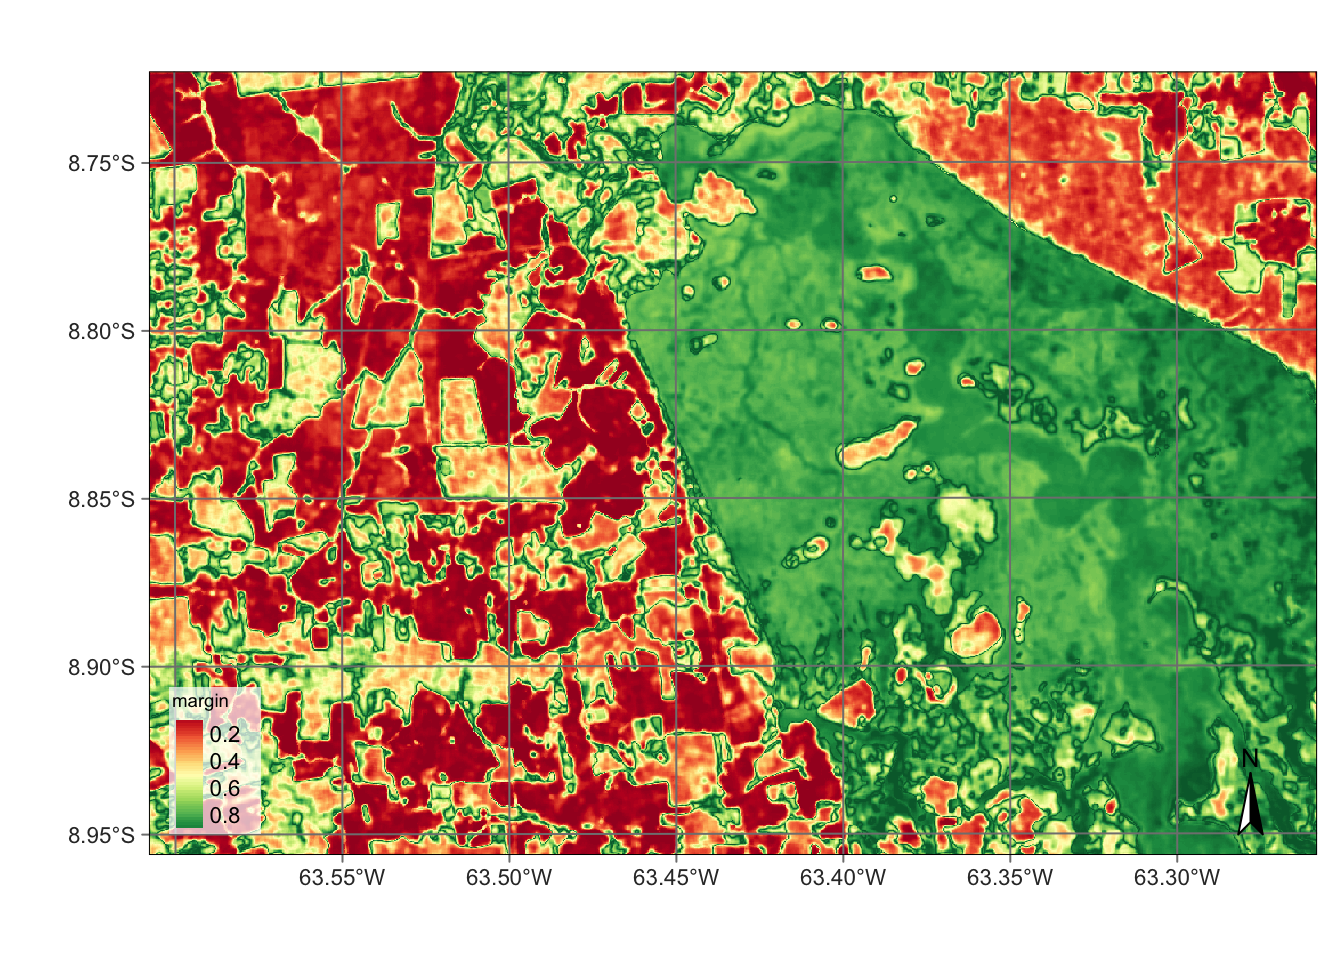
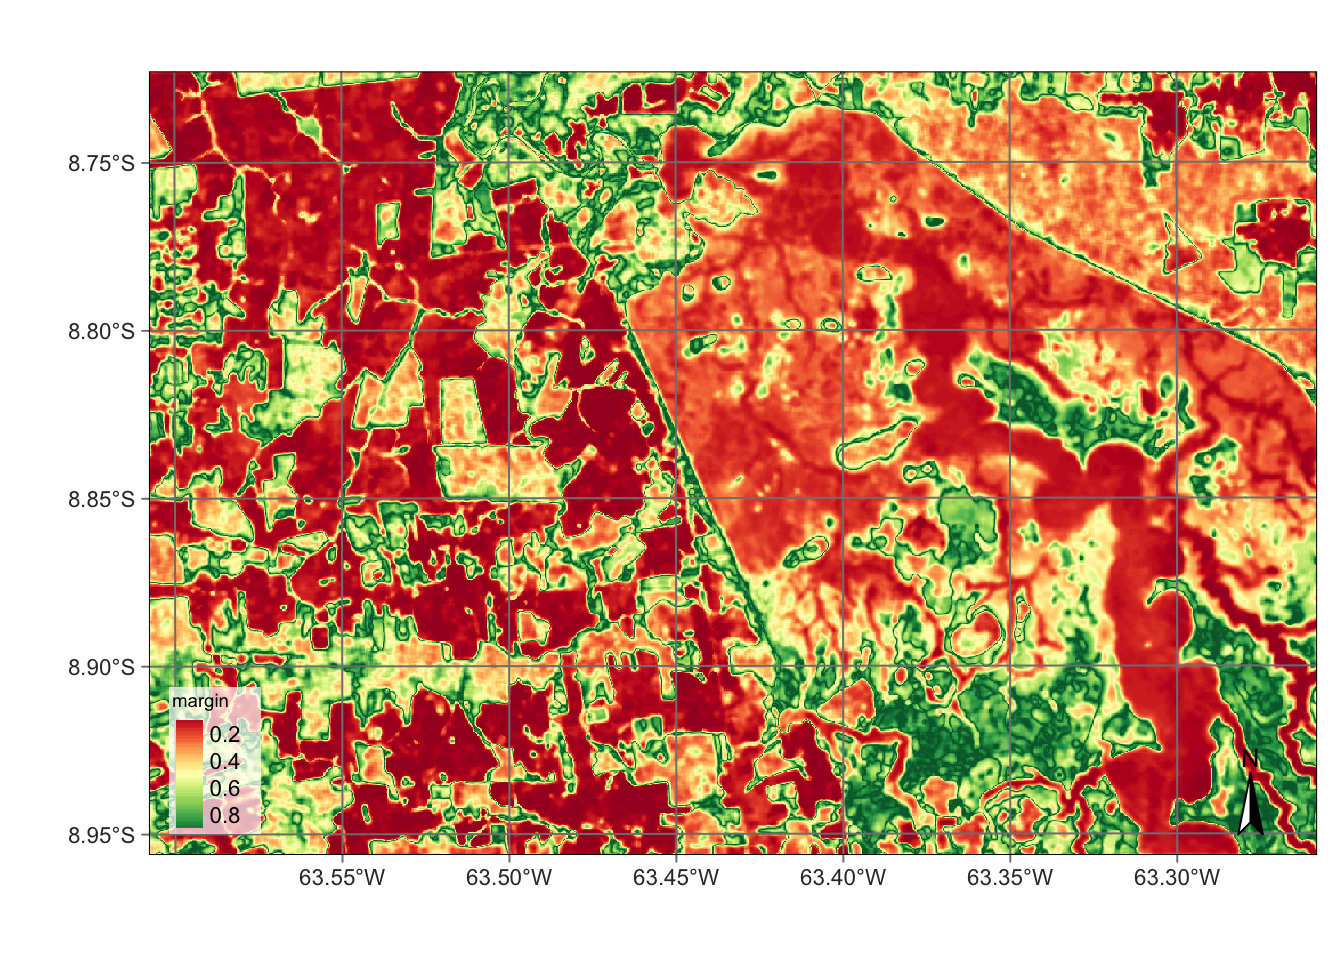
uncertainty mapped

diff --git a/docs/VT0007-deforestation-map.html b/docs/VT0007-deforestation-map.html
@@ -184,9 +184,9 @@ div.csl-indent {
   <li><a href="#process-data-cube" id="toc-process-data-cube" class="nav-link" data-scroll-target="#process-data-cube">Process data cube</a></li>
   <li><a href="#review-data-cube" id="toc-review-data-cube" class="nav-link" data-scroll-target="#review-data-cube">Review data cube</a></li>
   <li><a href="#classify-data-cube" id="toc-classify-data-cube" class="nav-link" data-scroll-target="#classify-data-cube">Classify data cube</a></li>
-  <li><a href="#review-uncertainty" id="toc-review-uncertainty" class="nav-link" data-scroll-target="#review-uncertainty">Review uncertainty</a></li>
-  <li><a href="#improve-training-sample" id="toc-improve-training-sample" class="nav-link" data-scroll-target="#improve-training-sample">Improve training sample</a></li>
-  <li><a href="#review-improvements" id="toc-review-improvements" class="nav-link" data-scroll-target="#review-improvements">Review improvements</a></li>
+  <li><a href="#map-uncertainty" id="toc-map-uncertainty" class="nav-link" data-scroll-target="#map-uncertainty">Map uncertainty</a></li>
+  <li><a href="#add-training-samples" id="toc-add-training-samples" class="nav-link" data-scroll-target="#add-training-samples">Add training samples</a></li>
+  <li><a href="#remap-uncertainty" id="toc-remap-uncertainty" class="nav-link" data-scroll-target="#remap-uncertainty">Remap uncertainty</a></li>
   <li><a href="#housekeeping" id="toc-housekeeping" class="nav-link" data-scroll-target="#housekeeping">Housekeeping</a></li>
   </ul></li>
   </ul>
@@ -372,8 +372,8 @@ div.csl-indent {
 </div>
 </div>
 </section>
-<section id="review-uncertainty" class="level2">
-<h2 class="anchored" data-anchor-id="review-uncertainty">Review uncertainty</h2>
+<section id="map-uncertainty" class="level2">
+<h2 class="anchored" data-anchor-id="map-uncertainty">Map uncertainty</h2>
 <p>To improve model performance, we estimate class uncertainty and plot these pixel error metrics. Results below reveal highest uncertainty levels in classification of wetland and water areas.</p>
 <div class="cell">
 <div class="sourceCode cell-code" id="cb6"><pre class="sourceCode r code-with-copy"><code class="sourceCode r"><span id="cb6-1"><a href="#cb6-1" aria-hidden="true" tabindex="-1"></a><span class="co"># Calculate the uncertainty cube</span></span>
@@ -394,7 +394,7 @@ div.csl-indent {
 </div>
 </div>
 </div>
-<p>As expected, the places of highest uncertainty are those covered by surface water or associated with wetlands. These places are likely to be misclassified. For this reason, sits provides sits_uncertainty_sampling(), which takes the uncertainty cube as its input and produces a tibble with locations in WGS84 with high uncertainty <span class="citation" data-cites="camaraUncertaintyActiveLearning">(<a href="#ref-camaraUncertaintyActiveLearning" role="doc-biblioref">Camara et al., n.d.</a>)</span>.</p>
+<p>As expected, the places of highest uncertainty are those covered by surface water or associated with wetlands. These places are likely to be misclassified. For this reason, sits provides <code>sits_uncertainty_sampling()</code>, which takes the uncertainty cube as its input and produces a tibble with locations in WGS84 with high uncertainty <span class="citation" data-cites="camaraUncertaintyActiveLearning">(<a href="#ref-camaraUncertaintyActiveLearning" role="doc-biblioref">Camara et al., n.d.</a>)</span>.</p>
 <div class="cell">
 <div class="sourceCode cell-code" id="cb7"><pre class="sourceCode r code-with-copy"><code class="sourceCode r"><span id="cb7-1"><a href="#cb7-1" aria-hidden="true" tabindex="-1"></a><span class="co"># Find samples with high uncertainty</span></span>
 <span id="cb7-2"><a href="#cb7-2" aria-hidden="true" tabindex="-1"></a>new_samples <span class="ot">&lt;-</span> <span class="fu">sits_uncertainty_sampling</span>(</span>
@@ -407,13 +407,14 @@ div.csl-indent {
 <span id="cb7-9"><a href="#cb7-9" aria-hidden="true" tabindex="-1"></a><span class="co"># View the location of the samples</span></span>
 <span id="cb7-10"><a href="#cb7-10" aria-hidden="true" tabindex="-1"></a><span class="fu">sits_view</span>(new_samples)</span></code><button title="Copy to Clipboard" class="code-copy-button"><i class="bi"></i></button></pre></div>
 <div class="cell-output-display">
-<p></p><div class="leaflet html-widget html-fill-item" id="htmlwidget-ff2ea14f3711cfd7abf3" style="width:100%;height:464px;"></div>
-<script type="application/json" data-for="htmlwidget-ff2ea14f3711cfd7abf3">{"x":{"options":{"crs":{"crsClass":"L.CRS.EPSG3857","code":null,"proj4def":null,"projectedBounds":null,"options":{}}},"calls":[{"method":"addProviderTiles","args":["GeoportailFrance.orthos",null,"GeoPortalFrance",{"errorTileUrl":"","noWrap":false,"detectRetina":false}]},{"method":"addProviderTiles","args":["Esri.WorldImagery",null,"ESRI",{"errorTileUrl":"","noWrap":false,"detectRetina":false}]},{"method":"addProviderTiles","args":["OpenStreetMap",null,"OSM",{"errorTileUrl":"","noWrap":false,"detectRetina":false}]},{"method":"addWMSTiles","args":["https://tiles.maps.eox.at/wms/",null,"Sentinel-2-2020",{"styles":"","format":"image/jpeg","transparent":false,"version":"1.1.1","layers":"s2cloudless-2020_3857_512"}]},{"method":"addCircleMarkers","args":[[-8.92351118287716,-8.924053884649068,-8.909403066336498,-8.893116517299164,-8.926767588756658,-8.948366862987008,-8.907503608107625,-8.933446747014161,-8.94728176062786,-8.922153644841517,-8.837769447713717,-8.823078520582468,-8.841023783947298,-8.89121606515072,-8.906958771229483,-8.941690109834905,-8.943047454426987,-8.91320217519443,-8.838311775794294,-8.912930824080131],[-63.26613924478765,-63.26613963803149,-63.26312745685119,-63.27075584987046,-63.26586872154951,-63.38896128408974,-63.26312609845306,-63.38512506249781,-63.38868723652695,-63.26722978031285,-63.25843853879831,-63.30862465695516,-63.26116900602962,-63.27211873761381,-63.26612726280296,-63.26833558518532,-63.2675178930804,-63.26285730148435,-63.25898455260065,-63.26285710752428],4,null,"Samples",{"interactive":true,"className":"","stroke":false,"color":["#C7A76C","#C7A76C","#C7A76C","#C7A76C","#C7A76C","#C7A76C","#C7A76C","#C7A76C","#C7A76C","#C7A76C","#C7A76C","#C7A76C","#C7A76C","#C7A76C","#C7A76C","#C7A76C","#C7A76C","#C7A76C","#C7A76C","#C7A76C"],"weight":5,"opacity":0.5,"fill":true,"fillColor":["#C7A76C","#C7A76C","#C7A76C","#C7A76C","#C7A76C","#C7A76C","#C7A76C","#C7A76C","#C7A76C","#C7A76C","#C7A76C","#C7A76C","#C7A76C","#C7A76C","#C7A76C","#C7A76C","#C7A76C","#C7A76C","#C7A76C","#C7A76C"],"fillOpacity":1},null,null,null,null,null,{"interactive":false,"permanent":false,"direction":"auto","opacity":1,"offset":[0,0],"textsize":"10px","textOnly":false,"className":"","sticky":true},null]},{"method":"addLayersControl","args":[["ESRI","GeoPortalFrance","Sentinel-2-2020","OSM"],"Samples",{"collapsed":false,"autoZIndex":true,"position":"topright"}]},{"method":"addLegend","args":[{"colors":["#C7A76C"],"labels":["NoClass"],"na_color":null,"na_label":"NA","opacity":1,"position":"topright","type":"factor","title":"Training Samples","extra":null,"layerId":null,"className":"info legend","group":null}]}],"flyToBounds":[-8.948366862987008,-63.38896128408974,-8.823078520582468,-63.25843853879831,[]],"limits":{"lat":[-8.948366862987008,-8.823078520582468],"lng":[-63.38896128408974,-63.25843853879831]}},"evals":[],"jsHooks":{"render":[{"code":"function(el, x, data) {\n  return (\n      function(el, x, data) {\n      // get the leaflet map\n      var map = this; //HTMLWidgets.find('#' + el.id);\n      // we need a new div element because we have to handle\n      // the mouseover output separately\n      // debugger;\n      function addElement () {\n      // generate new div Element\n      var newDiv = $(document.createElement('div'));\n      // append at end of leaflet htmlwidget container\n      $(el).append(newDiv);\n      //provide ID and style\n      newDiv.addClass('lnlt');\n      newDiv.css({\n      'position': 'relative',\n      'bottomleft':  '0px',\n      'background-color': 'rgba(255, 255, 255, 0.7)',\n      'box-shadow': '0 0 2px #bbb',\n      'background-clip': 'padding-box',\n      'margin': '0',\n      'padding-left': '5px',\n      'color': '#333',\n      'font': '9px/1.5 \"Helvetica Neue\", Arial, Helvetica, sans-serif',\n      'z-index': '700',\n      });\n      return newDiv;\n      }\n\n\n      // check for already existing lnlt class to not duplicate\n      var lnlt = $(el).find('.lnlt');\n\n      if(!lnlt.length) {\n      lnlt = addElement();\n\n      // grab the special div we generated in the beginning\n      // and put the mousmove output there\n\n      map.on('mousemove', function (e) {\n      if (e.originalEvent.ctrlKey) {\n      if (document.querySelector('.lnlt') === null) lnlt = addElement();\n      lnlt.text(\n                           ' lon: ' + (e.latlng.lng).toFixed(5) +\n                           ' | lat: ' + (e.latlng.lat).toFixed(5) +\n                           ' | zoom: ' + map.getZoom() +\n                           ' | x: ' + L.CRS.EPSG3857.project(e.latlng).x.toFixed(0) +\n                           ' | y: ' + L.CRS.EPSG3857.project(e.latlng).y.toFixed(0) +\n                           ' | epsg: 3857 ' +\n                           ' | proj4: +proj=merc +a=6378137 +b=6378137 +lat_ts=0.0 +lon_0=0.0 +x_0=0.0 +y_0=0 +k=1.0 +units=m +nadgrids=@null +no_defs ');\n      } else {\n      if (document.querySelector('.lnlt') === null) lnlt = addElement();\n      lnlt.text(\n                      ' lon: ' + (e.latlng.lng).toFixed(5) +\n                      ' | lat: ' + (e.latlng.lat).toFixed(5) +\n                      ' | zoom: ' + map.getZoom() + ' ');\n      }\n      });\n\n      // remove the lnlt div when mouse leaves map\n      map.on('mouseout', function (e) {\n      var strip = document.querySelector('.lnlt');\n      if( strip !==null) strip.remove();\n      });\n\n      };\n\n      //$(el).keypress(67, function(e) {\n      map.on('preclick', function(e) {\n      if (e.originalEvent.ctrlKey) {\n      if (document.querySelector('.lnlt') === null) lnlt = addElement();\n      lnlt.text(\n                      ' lon: ' + (e.latlng.lng).toFixed(5) +\n                      ' | lat: ' + (e.latlng.lat).toFixed(5) +\n                      ' | zoom: ' + map.getZoom() + ' ');\n      var txt = document.querySelector('.lnlt').textContent;\n      console.log(txt);\n      //txt.innerText.focus();\n      //txt.select();\n      setClipboardText('\"' + txt + '\"');\n      }\n      });\n\n      }\n      ).call(this.getMap(), el, x, data);\n}","data":null}]}}</script><p></p>
+<p></p><div class="leaflet html-widget html-fill-item" id="htmlwidget-e70202e8d3b467e96614" style="width:100%;height:464px;"></div>
+<script type="application/json" data-for="htmlwidget-e70202e8d3b467e96614">{"x":{"options":{"crs":{"crsClass":"L.CRS.EPSG3857","code":null,"proj4def":null,"projectedBounds":null,"options":{}}},"calls":[{"method":"addProviderTiles","args":["GeoportailFrance.orthos",null,"GeoPortalFrance",{"errorTileUrl":"","noWrap":false,"detectRetina":false}]},{"method":"addProviderTiles","args":["Esri.WorldImagery",null,"ESRI",{"errorTileUrl":"","noWrap":false,"detectRetina":false}]},{"method":"addProviderTiles","args":["OpenStreetMap",null,"OSM",{"errorTileUrl":"","noWrap":false,"detectRetina":false}]},{"method":"addWMSTiles","args":["https://tiles.maps.eox.at/wms/",null,"Sentinel-2-2020",{"styles":"","format":"image/jpeg","transparent":false,"version":"1.1.1","layers":"s2cloudless-2020_3857_512"}]},{"method":"addCircleMarkers","args":[[-8.92351118287716,-8.924053884649068,-8.909403066336498,-8.893116517299164,-8.926767588756658,-8.948366862987008,-8.907503608107625,-8.933446747014161,-8.94728176062786,-8.922153644841517,-8.837769447713717,-8.823078520582468,-8.841023783947298,-8.89121606515072,-8.906958771229483,-8.941690109834905,-8.943047454426987,-8.91320217519443,-8.838311775794294,-8.912930824080131],[-63.26613924478765,-63.26613963803149,-63.26312745685119,-63.27075584987046,-63.26586872154951,-63.38896128408974,-63.26312609845306,-63.38512506249781,-63.38868723652695,-63.26722978031285,-63.25843853879831,-63.30862465695516,-63.26116900602962,-63.27211873761381,-63.26612726280296,-63.26833558518532,-63.2675178930804,-63.26285730148435,-63.25898455260065,-63.26285710752428],4,null,"Samples",{"interactive":true,"className":"","stroke":false,"color":["#C7A76C","#C7A76C","#C7A76C","#C7A76C","#C7A76C","#C7A76C","#C7A76C","#C7A76C","#C7A76C","#C7A76C","#C7A76C","#C7A76C","#C7A76C","#C7A76C","#C7A76C","#C7A76C","#C7A76C","#C7A76C","#C7A76C","#C7A76C"],"weight":5,"opacity":0.5,"fill":true,"fillColor":["#C7A76C","#C7A76C","#C7A76C","#C7A76C","#C7A76C","#C7A76C","#C7A76C","#C7A76C","#C7A76C","#C7A76C","#C7A76C","#C7A76C","#C7A76C","#C7A76C","#C7A76C","#C7A76C","#C7A76C","#C7A76C","#C7A76C","#C7A76C"],"fillOpacity":1},null,null,null,null,null,{"interactive":false,"permanent":false,"direction":"auto","opacity":1,"offset":[0,0],"textsize":"10px","textOnly":false,"className":"","sticky":true},null]},{"method":"addLayersControl","args":[["ESRI","GeoPortalFrance","Sentinel-2-2020","OSM"],"Samples",{"collapsed":false,"autoZIndex":true,"position":"topright"}]},{"method":"addLegend","args":[{"colors":["#C7A76C"],"labels":["NoClass"],"na_color":null,"na_label":"NA","opacity":1,"position":"topright","type":"factor","title":"Training Samples","extra":null,"layerId":null,"className":"info legend","group":null}]}],"flyToBounds":[-8.948366862987008,-63.38896128408974,-8.823078520582468,-63.25843853879831,[]],"limits":{"lat":[-8.948366862987008,-8.823078520582468],"lng":[-63.38896128408974,-63.25843853879831]}},"evals":[],"jsHooks":{"render":[{"code":"function(el, x, data) {\n  return (\n      function(el, x, data) {\n      // get the leaflet map\n      var map = this; //HTMLWidgets.find('#' + el.id);\n      // we need a new div element because we have to handle\n      // the mouseover output separately\n      // debugger;\n      function addElement () {\n      // generate new div Element\n      var newDiv = $(document.createElement('div'));\n      // append at end of leaflet htmlwidget container\n      $(el).append(newDiv);\n      //provide ID and style\n      newDiv.addClass('lnlt');\n      newDiv.css({\n      'position': 'relative',\n      'bottomleft':  '0px',\n      'background-color': 'rgba(255, 255, 255, 0.7)',\n      'box-shadow': '0 0 2px #bbb',\n      'background-clip': 'padding-box',\n      'margin': '0',\n      'padding-left': '5px',\n      'color': '#333',\n      'font': '9px/1.5 \"Helvetica Neue\", Arial, Helvetica, sans-serif',\n      'z-index': '700',\n      });\n      return newDiv;\n      }\n\n\n      // check for already existing lnlt class to not duplicate\n      var lnlt = $(el).find('.lnlt');\n\n      if(!lnlt.length) {\n      lnlt = addElement();\n\n      // grab the special div we generated in the beginning\n      // and put the mousmove output there\n\n      map.on('mousemove', function (e) {\n      if (e.originalEvent.ctrlKey) {\n      if (document.querySelector('.lnlt') === null) lnlt = addElement();\n      lnlt.text(\n                           ' lon: ' + (e.latlng.lng).toFixed(5) +\n                           ' | lat: ' + (e.latlng.lat).toFixed(5) +\n                           ' | zoom: ' + map.getZoom() +\n                           ' | x: ' + L.CRS.EPSG3857.project(e.latlng).x.toFixed(0) +\n                           ' | y: ' + L.CRS.EPSG3857.project(e.latlng).y.toFixed(0) +\n                           ' | epsg: 3857 ' +\n                           ' | proj4: +proj=merc +a=6378137 +b=6378137 +lat_ts=0.0 +lon_0=0.0 +x_0=0.0 +y_0=0 +k=1.0 +units=m +nadgrids=@null +no_defs ');\n      } else {\n      if (document.querySelector('.lnlt') === null) lnlt = addElement();\n      lnlt.text(\n                      ' lon: ' + (e.latlng.lng).toFixed(5) +\n                      ' | lat: ' + (e.latlng.lat).toFixed(5) +\n                      ' | zoom: ' + map.getZoom() + ' ');\n      }\n      });\n\n      // remove the lnlt div when mouse leaves map\n      map.on('mouseout', function (e) {\n      var strip = document.querySelector('.lnlt');\n      if( strip !==null) strip.remove();\n      });\n\n      };\n\n      //$(el).keypress(67, function(e) {\n      map.on('preclick', function(e) {\n      if (e.originalEvent.ctrlKey) {\n      if (document.querySelector('.lnlt') === null) lnlt = addElement();\n      lnlt.text(\n                      ' lon: ' + (e.latlng.lng).toFixed(5) +\n                      ' | lat: ' + (e.latlng.lat).toFixed(5) +\n                      ' | zoom: ' + map.getZoom() + ' ');\n      var txt = document.querySelector('.lnlt').textContent;\n      console.log(txt);\n      //txt.innerText.focus();\n      //txt.select();\n      setClipboardText('\"' + txt + '\"');\n      }\n      });\n\n      }\n      ).call(this.getMap(), el, x, data);\n}","data":null}]}}</script><p></p>
 </div>
 </div>
 </section>
-<section id="improve-training-sample" class="level2">
-<h2 class="anchored" data-anchor-id="improve-training-sample">Improve training sample</h2>
+<section id="add-training-samples" class="level2">
+<h2 class="anchored" data-anchor-id="add-training-samples">Add training samples</h2>
+<p>We can then use these points of high-uncertainty as new samples to add to our current training dataset. Once we identify their feature classes and relabel them correctly, we append them to derive an augmented <code>samples_round_2</code>.</p>
 <div class="cell">
 <div class="sourceCode cell-code" id="cb8"><pre class="sourceCode r code-with-copy"><code class="sourceCode r"><span id="cb8-1"><a href="#cb8-1" aria-hidden="true" tabindex="-1"></a><span class="co"># Label the new samples</span></span>
 <span id="cb8-2"><a href="#cb8-2" aria-hidden="true" tabindex="-1"></a>new_samples<span class="sc">$</span>label <span class="ot">&lt;-</span> <span class="st">"Wetland"</span></span>
@@ -475,19 +476,20 @@ div.csl-indent {
 </div>
 </div>
 </section>
-<section id="review-improvements" class="level2">
-<h2 class="anchored" data-anchor-id="review-improvements">Review improvements</h2>
+<section id="remap-uncertainty" class="level2">
+<h2 class="anchored" data-anchor-id="remap-uncertainty">Remap uncertainty</h2>
 <div class="cell">
 <div class="sourceCode cell-code" id="cb9"><pre class="sourceCode r code-with-copy"><code class="sourceCode r"><span id="cb9-1"><a href="#cb9-1" aria-hidden="true" tabindex="-1"></a><span class="co"># Calculate the uncertainty cube</span></span>
-<span id="cb9-2"><a href="#cb9-2" aria-hidden="true" tabindex="-1"></a>s2_cube_uncert <span class="ot">&lt;-</span> <span class="fu">sits_uncertainty</span>(</span>
-<span id="cb9-3"><a href="#cb9-3" aria-hidden="true" tabindex="-1"></a>  <span class="at">cube =</span> s2_cube_bayes,</span>
+<span id="cb9-2"><a href="#cb9-2" aria-hidden="true" tabindex="-1"></a>s2_cube_uncert_v2 <span class="ot">&lt;-</span> <span class="fu">sits_uncertainty</span>(</span>
+<span id="cb9-3"><a href="#cb9-3" aria-hidden="true" tabindex="-1"></a>  <span class="at">cube =</span> s2_cube_bayes_v2,</span>
 <span id="cb9-4"><a href="#cb9-4" aria-hidden="true" tabindex="-1"></a>  <span class="at">type =</span> <span class="st">"margin"</span>,</span>
 <span id="cb9-5"><a href="#cb9-5" aria-hidden="true" tabindex="-1"></a>  <span class="at">output_dir =</span> <span class="st">"./cubes/03_error/"</span>,</span>
-<span id="cb9-6"><a href="#cb9-6" aria-hidden="true" tabindex="-1"></a>  <span class="at">memsize =</span> <span class="dv">16</span>,</span>
-<span id="cb9-7"><a href="#cb9-7" aria-hidden="true" tabindex="-1"></a>  <span class="at">multicores =</span> <span class="dv">4</span></span>
-<span id="cb9-8"><a href="#cb9-8" aria-hidden="true" tabindex="-1"></a>  )</span>
-<span id="cb9-9"><a href="#cb9-9" aria-hidden="true" tabindex="-1"></a></span>
-<span id="cb9-10"><a href="#cb9-10" aria-hidden="true" tabindex="-1"></a><span class="fu">plot</span>(s2_cube_uncert)</span></code><button title="Copy to Clipboard" class="code-copy-button"><i class="bi"></i></button></pre></div>
+<span id="cb9-6"><a href="#cb9-6" aria-hidden="true" tabindex="-1"></a>  <span class="at">version =</span> <span class="st">"v2"</span>,</span>
+<span id="cb9-7"><a href="#cb9-7" aria-hidden="true" tabindex="-1"></a>  <span class="at">memsize =</span> <span class="dv">16</span>,</span>
+<span id="cb9-8"><a href="#cb9-8" aria-hidden="true" tabindex="-1"></a>  <span class="at">multicores =</span> <span class="dv">4</span></span>
+<span id="cb9-9"><a href="#cb9-9" aria-hidden="true" tabindex="-1"></a>)</span>
+<span id="cb9-10"><a href="#cb9-10" aria-hidden="true" tabindex="-1"></a></span>
+<span id="cb9-11"><a href="#cb9-11" aria-hidden="true" tabindex="-1"></a><span class="fu">plot</span>(s2_cube_uncert_v2)</span></code><button title="Copy to Clipboard" class="code-copy-button"><i class="bi"></i></button></pre></div>
 <div class="cell-output-display">
 <div>
 <figure class="figure">

diff --git a/VT0007-deforestation-map.html.md b/VT0007-deforestation-map.html.md
@@ -217,7 +217,7 @@ plot(s2_cube_label)
 
 
 
-## Review uncertainty
+## Map uncertainty
 
 To improve model performance, we estimate class uncertainty and plot these pixel error metrics.
 Results below reveal highest uncertainty levels in classification of wetland and water areas.
@@ -250,7 +250,7 @@ plot(s2_cube_uncert)
 
 As expected, the places of highest uncertainty are those covered by surface water or associated with wetlands.
 These places are likely to be misclassified.
-For this reason, sits provides sits_uncertainty_sampling(), which takes the uncertainty cube as its input and produces a tibble with locations in WGS84 with high uncertainty [@camaraUncertaintyActiveLearning].
+For this reason, sits provides `sits_uncertainty_sampling()`, which takes the uncertainty cube as its input and produces a tibble with locations in WGS84 with high uncertainty [@camaraUncertaintyActiveLearning].
 
 
 
@@ -271,14 +271,17 @@ sits_view(new_samples)
 ```
 
 ::: {.cell-output-display}
-preserve54ae1a3ab54aa88c
+preservedda470c8ed8bac7c
 :::
 :::
 
 
 
 
-## Improve training sample
+## Add training samples
+
+We can then use these points of high-uncertainty as new samples to add to our current training dataset.
+Once we identify their feature classes and relabel them correctly, we append them to derive an augmented `samples_round_2`.
 
 
 
@@ -347,7 +350,7 @@ plot(s2_cube_label_v2)
 
 
 
-## Review improvements
+## Remap uncertainty
 
 
 
@@ -356,15 +359,16 @@ plot(s2_cube_label_v2)
 
 ```{.r .cell-code}
 # Calculate the uncertainty cube
-s2_cube_uncert <- sits_uncertainty(
-  cube = s2_cube_bayes,
+s2_cube_uncert_v2 <- sits_uncertainty(
+  cube = s2_cube_bayes_v2,
   type = "margin",
   output_dir = "./cubes/03_error/",
+  version = "v2",
   memsize = 16,
   multicores = 4
-  )
+)
 
-plot(s2_cube_uncert)
+plot(s2_cube_uncert_v2)
 ```
 
 ::: {.cell-output-display}
